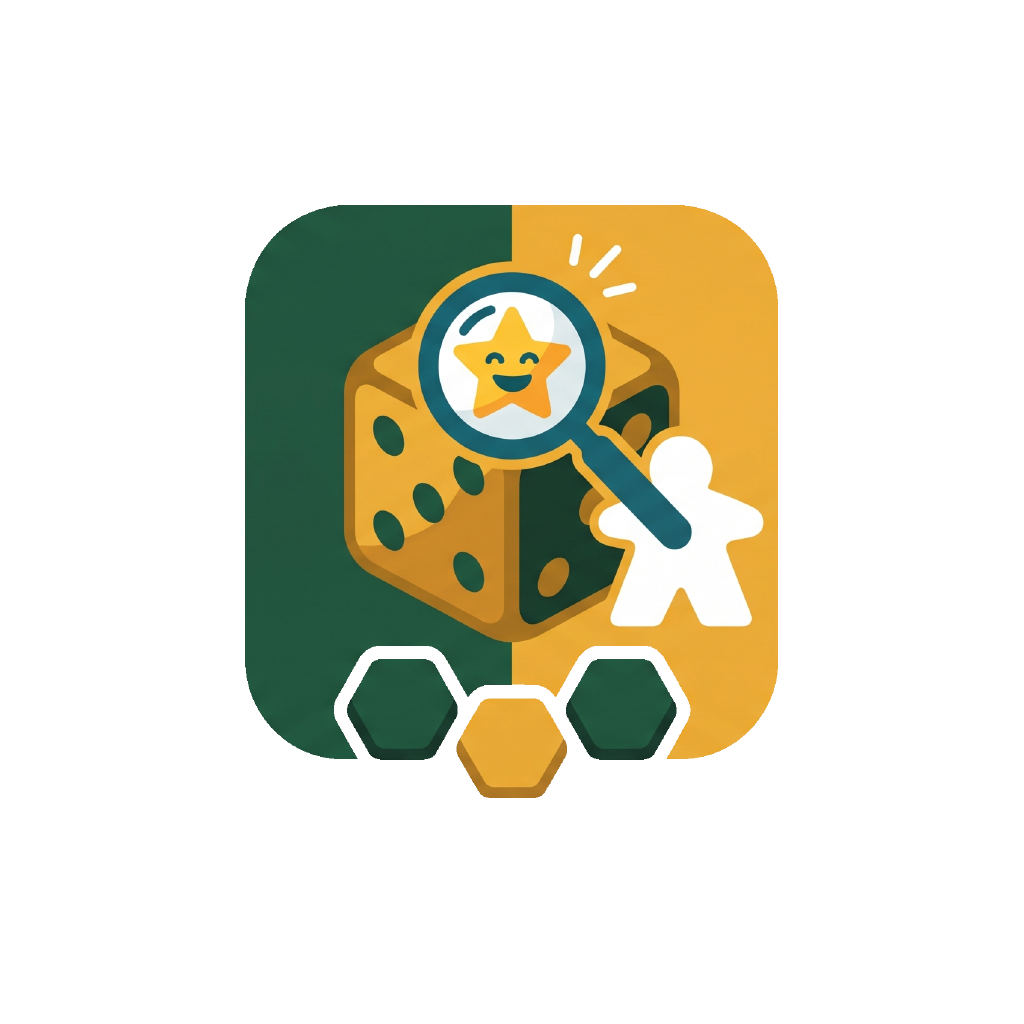
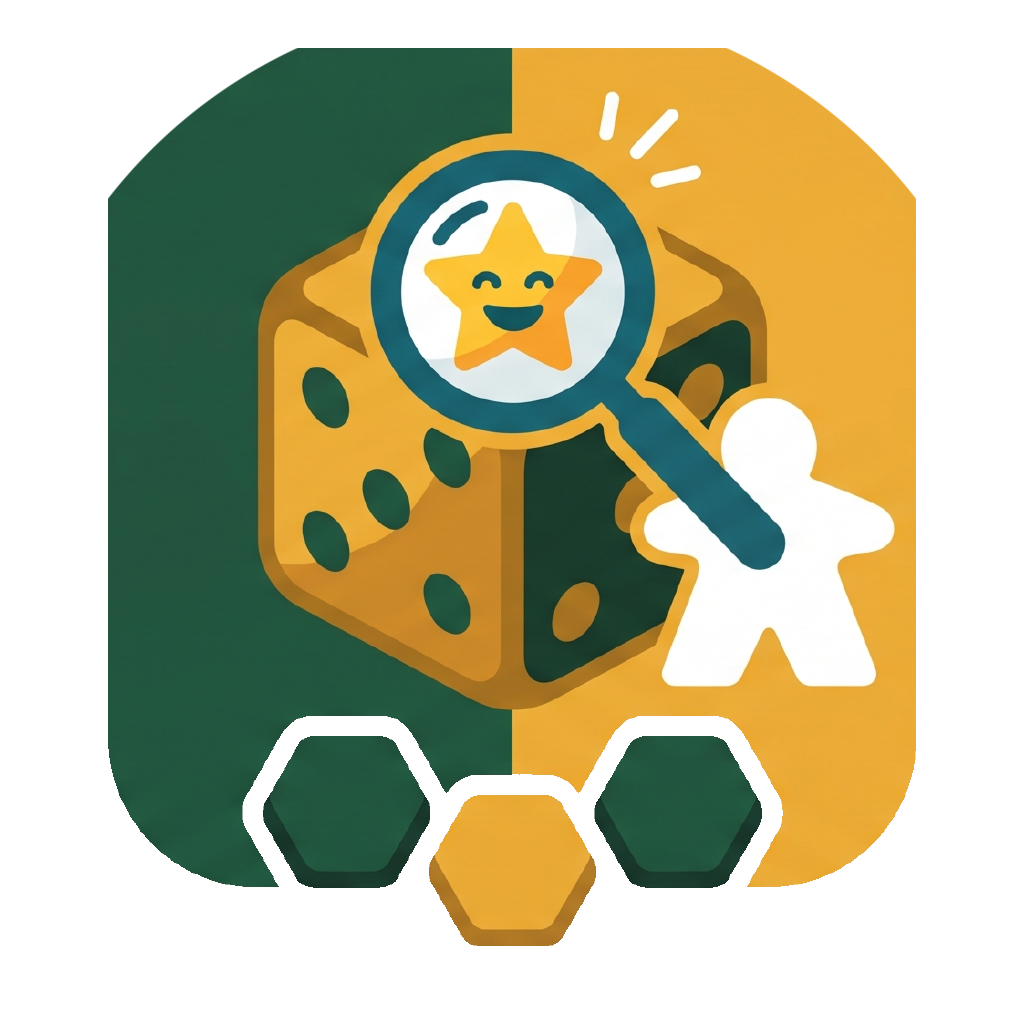
Motiv fuellt die Scheibe wieder aus
Auf dem Startbildschirm sass das Motiv viel zu klein in seinem Rand. Ich
hatte es auf die mittleren 66 Prozent der Symbolebene gerechnet - weil
Android von einer 108-dp-Ebene nur 72 dp zeigt. capacitor-assets legt
beide Ebenen aber schon mit <inset android:inset="16.7%"> an; damit
landet das ganze Bild in der sichtbaren Flaeche, und meine Rechnung hat
ein zweites Mal verkleinert.

Nachgemessen am erzeugten mipmap: Das Motiv nahm 42 Prozent der Scheibe
ein statt 64. Jetzt rechnen adaptiv() und scheibe() mit derselben
Bezugsgroesse, der Vordergrund wird wie die Scheibe am Kreis
beschnitten, und beide Wege liefern dasselbe Bild.

Claude-Session: https://claude.ai/code/session_01TEE2VGK7Y2EVfuDspfpgKp

diff --git a/index.html b/index.html
@@ -635,7 +635,7 @@ footer .fassung{margin-top:10px; font-size:12px; opacity:.75}
   <footer>
     <p>Spielerzahlen, Dauer und Anspruch sind Erfahrungswerte — unter „Sammlung bearbeiten“ jederzeit korrigierbar.</p>
     <p>Neues Spiel gekauft? Oben ins Regal stellen. Verliehen und nie wiedergesehen? Entfernen.</p>
-    <p class="fassung">Fassung 2.1.0</p>
+    <p class="fassung">Fassung 2.1.1</p>
   </footer>
 </div>
 

diff --git a/CHANGELOG.md b/CHANGELOG.md
@@ -9,6 +9,17 @@ bei x.y.**Z** wird etwas repariert.
 
 ## [Unveröffentlicht]
 
+## [2.1.1] – 2026-10-12
+
+### Behoben
+
+- **Das Symbol saß zu klein in seiner Scheibe.** Der Rand war viel zu breit,
+  das Motiv wirkte herausgezoomt. Ursache: Android zeigt von einer Symbolebene
+  nur die mittlere Fläche, und darauf hatte ich das Motiv gerechnet — das
+  Baukastenwerkzeug legt die Ebenen aber ohnehin schon passend hinein, so dass
+  verkleinert wurde. Das Motiv füllt die Scheibe jetzt so aus wie überall
+  sonst; es ist rund die Hälfte größer als in 2.1.0.
+
 ## [2.1.0] – 2026-10-12
 
 ### Geändert
@@ -281,7 +292,8 @@ Erste gezählte Fassung. Sie fasst zusammen, was bis hierher entstanden ist.
 - Das App-Symbol wurde von Androids runder Maske beschnitten. Vorder- und
   Hintergrund liegen nun als eigene Ebenen vor.
 
-[Unveröffentlicht]: https://github.com/Dr-Nerdlove/Board-Game-Recommender/compare/v2.1.0...HEAD
+[Unveröffentlicht]: https://github.com/Dr-Nerdlove/Board-Game-Recommender/compare/v2.1.1...HEAD
+[2.1.1]: https://github.com/Dr-Nerdlove/Board-Game-Recommender/releases/tag/v2.1.1
 [2.1.0]: https://github.com/Dr-Nerdlove/Board-Game-Recommender/releases/tag/v2.1.0
 [2.0.1]: https://github.com/Dr-Nerdlove/Board-Game-Recommender/releases/tag/v2.0.1
 [2.0.0]: https://github.com/Dr-Nerdlove/Board-Game-Recommender/releases/tag/v2.0.0

diff --git a/ENTWICKLUNG.md b/ENTWICKLUNG.md
@@ -96,9 +96,19 @@ Drei Dinge, die beim Bauen schiefgingen und wieder schiefgehen können:
   Hintergrund-Ocker.
 - **Erst alles aufbauen, dann die Scheibe ausstanzen.** Das Motiv bringt den
   Kachelgrund mit — der gehört dazu, muss aber mit abgeschnitten werden.
-- **Die beiden Ebenen des adaptiven Symbols**: Hintergrund trägt die
-  Zweiteilung über die ganze Fläche, damit jede Maskenform nur Markenfarbe
-  zeigt. Sichtbar sind nur die mittleren 66 Prozent.
+- **Die beiden Ebenen des adaptiven Symbols füllen beide die ganze
+  Bildfläche** — auch der Vordergrund. Das klingt falsch, weil Android von
+  einer 108-dp-Ebene nur die mittleren 72 dp zeigt, und war auch mein erster
+  Fehler: Ich habe das Motiv auf diese 66 Prozent gerechnet, und es erschien
+  auf dem Startbildschirm nur halb so groß wie gedacht. Der Grund steht in
+  `ic_launcher.xml`, das `capacitor-assets` schreibt: Es legt beide Ebenen mit
+  `<inset android:inset="16.7%">` an. Damit landet unser Bild als Ganzes in
+  der sichtbaren Fläche. Wer hier noch einmal auf 66 Prozent rechnet,
+  verkleinert ein zweites Mal.
+
+  Nachprüfen lässt sich das ohne Gerät: `npx cap add android`, dann
+  `npx capacitor-assets generate --android`, und in
+  `android/app/src/main/res/mipmap-anydpi-v26/ic_launcher.xml` nachsehen.
 
 ### Signatur
 
